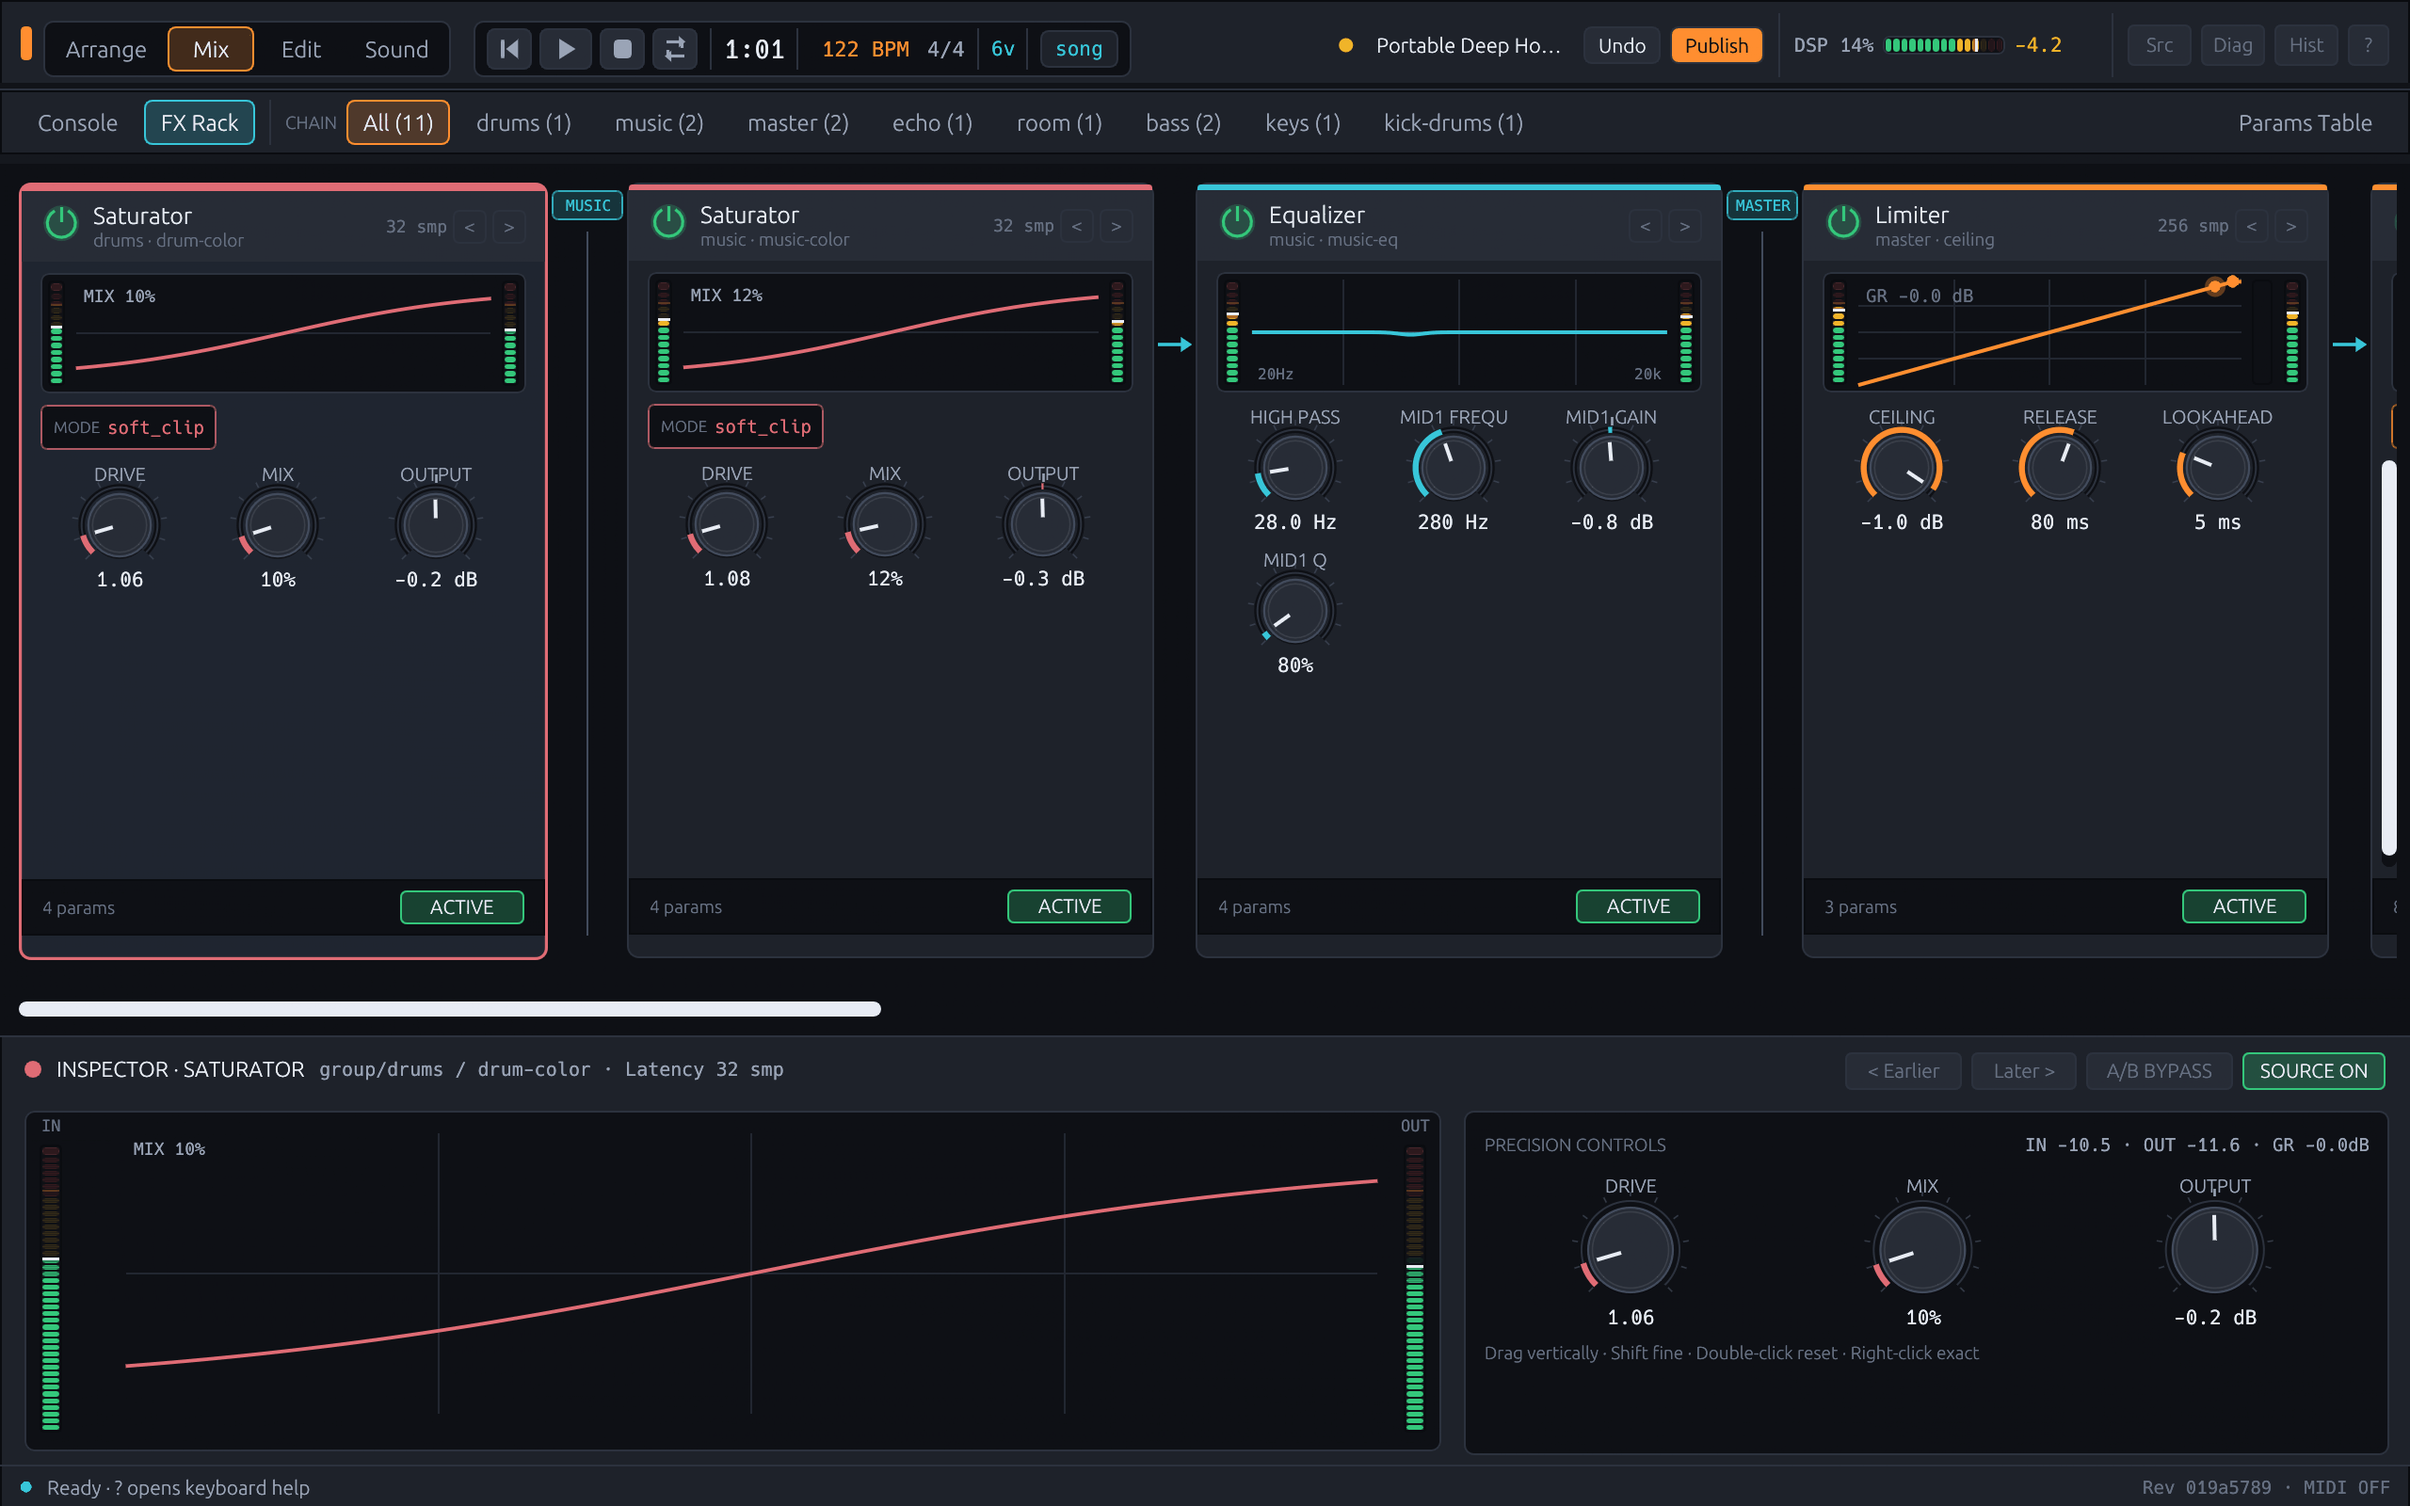
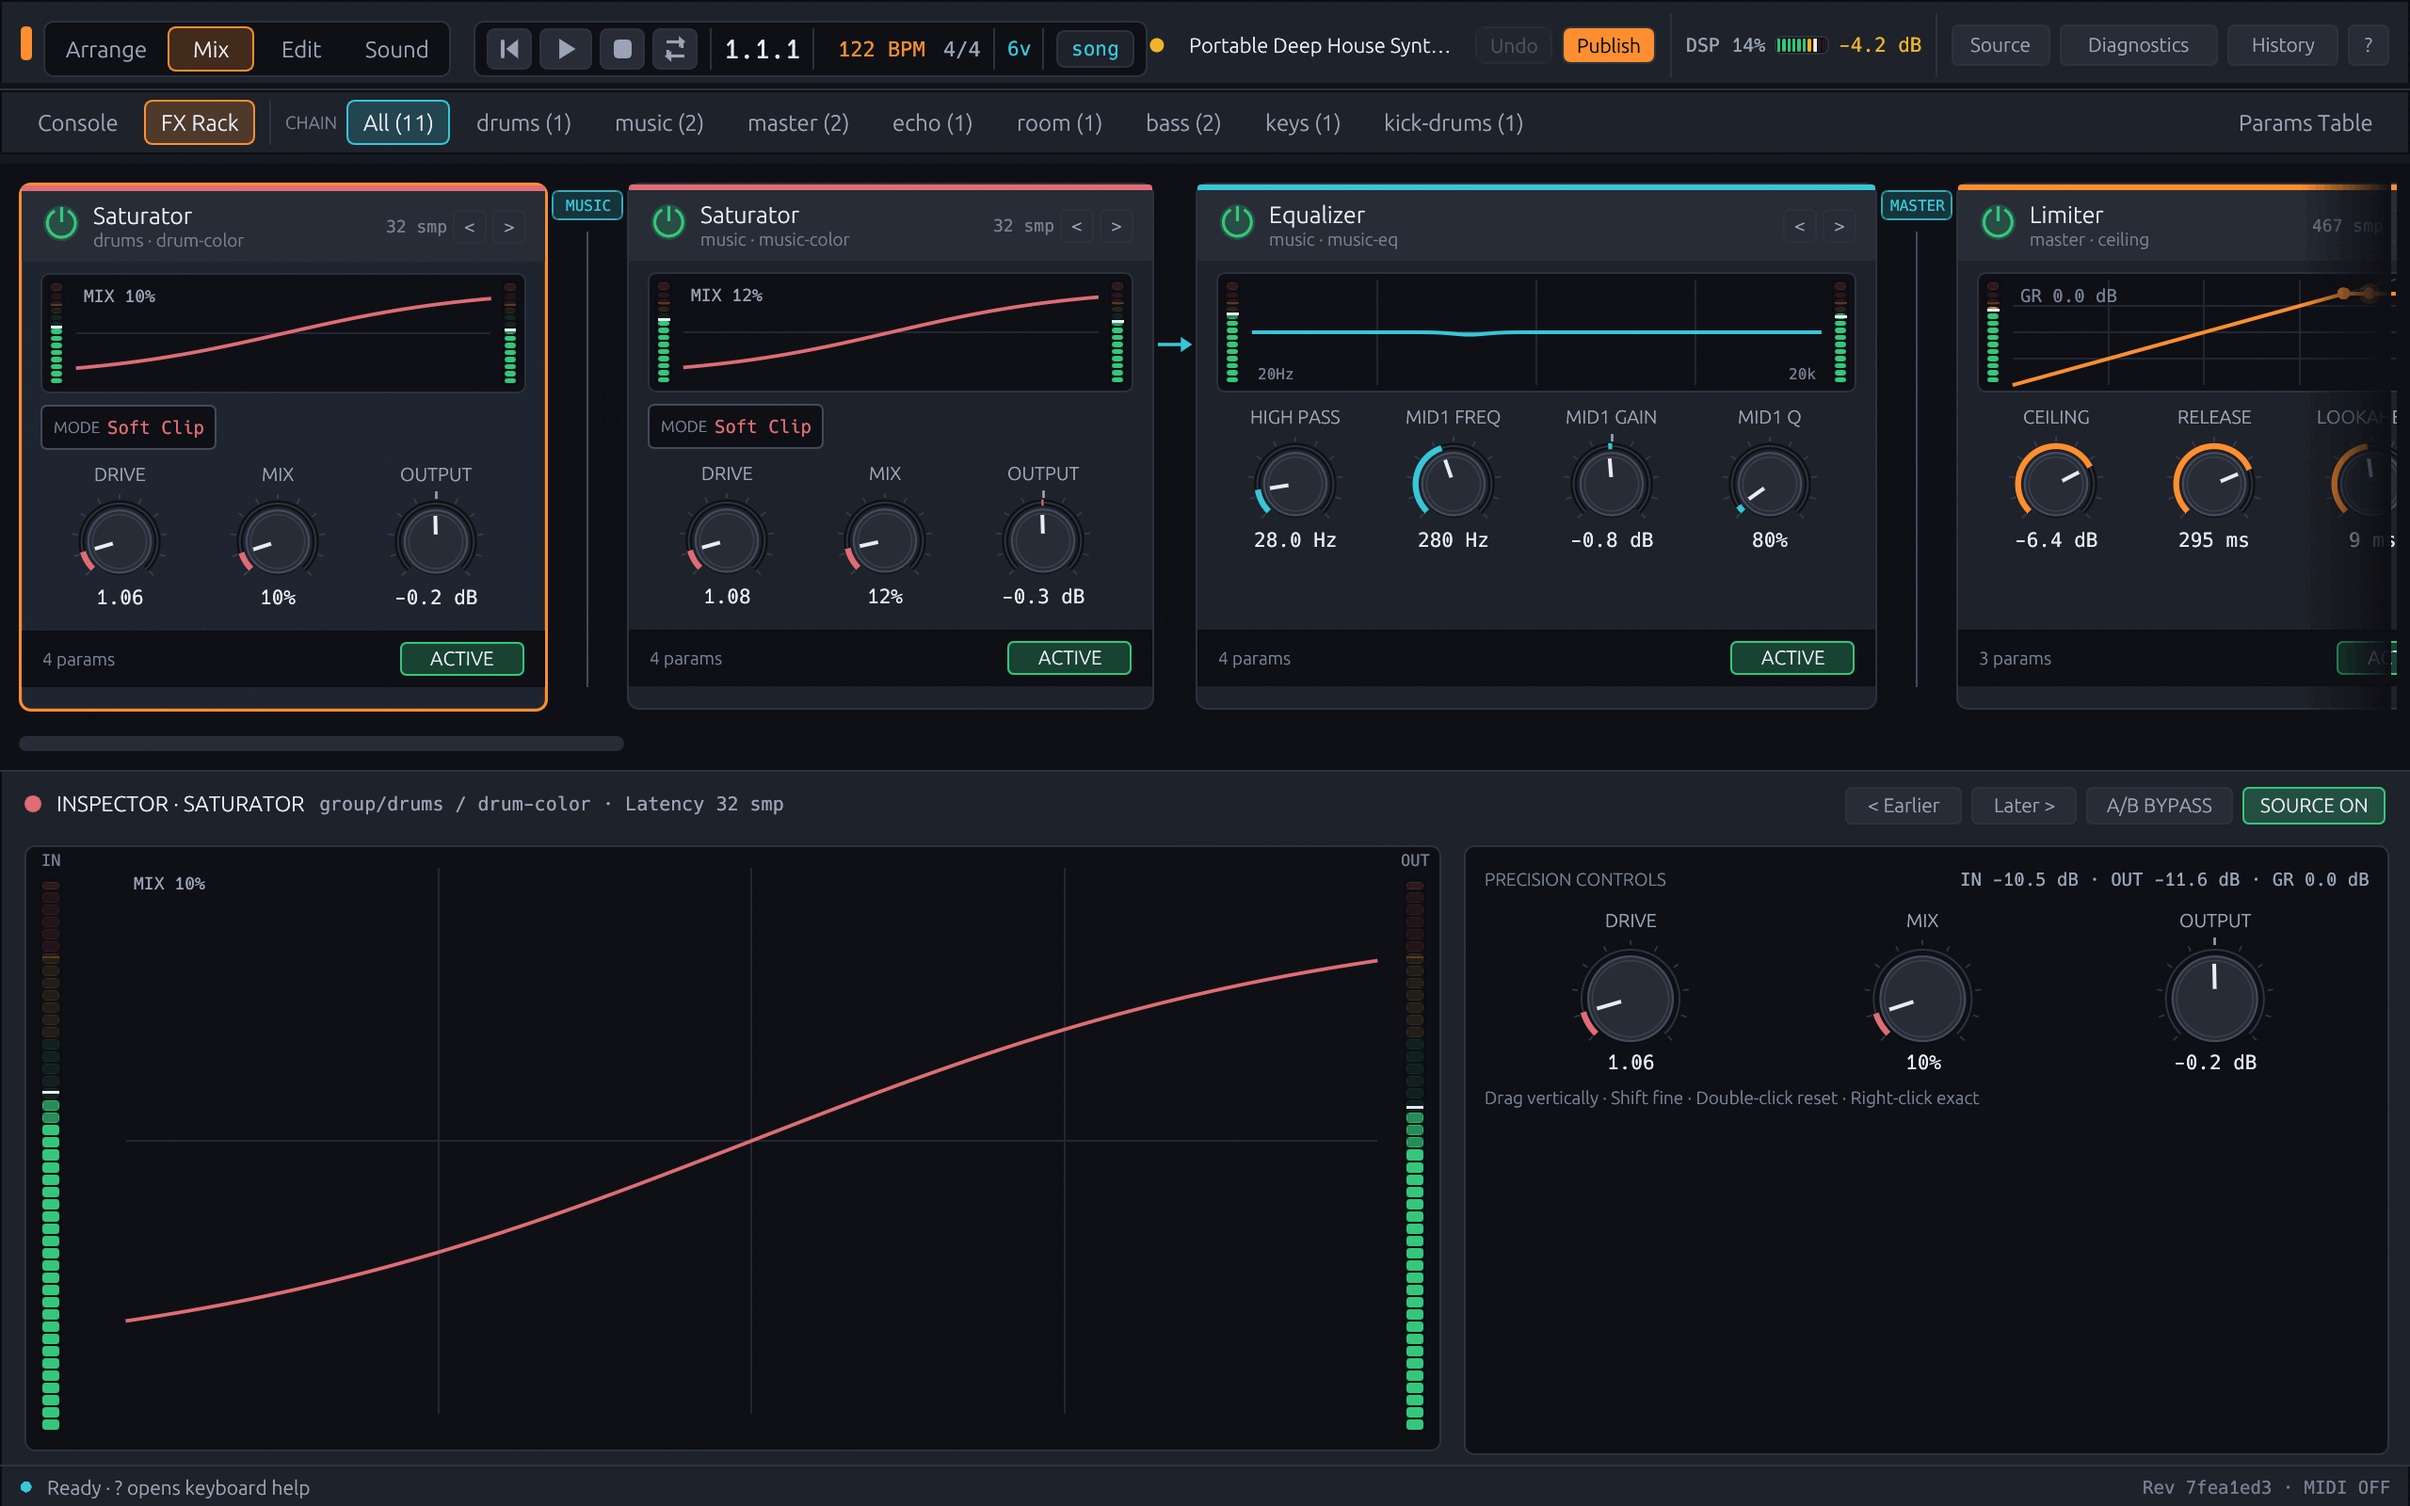
Show song end as bar.beat.sixteenth; refresh desktop screenshots

diff --git a/src/workspace/gui/arrangement.rs b/src/workspace/gui/arrangement.rs
@@ -417,7 +417,14 @@ fn lanes(ui: &mut Ui, cx: &mut Cx<'_>, project: &Project) {
             "{:.0} BPM · {} · END {}",
             project.song.tempo_bpm,
             project.song.meter,
-            timeline_time_label(project.song.end, project.song.meter)
+            theme::format_bar_beat(
+                project.song.end.as_f64(),
+                project
+                    .song
+                    .meter
+                    .bar_length()
+                    .map_or(4.0, crate::time::MusicalTime::as_f64),
+            )
         ),
         FontId::monospace(10.0),
         theme::TEXT_SECONDARY,
